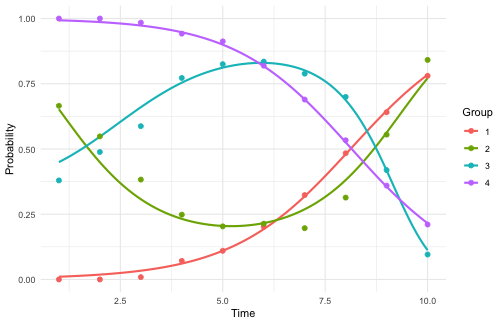
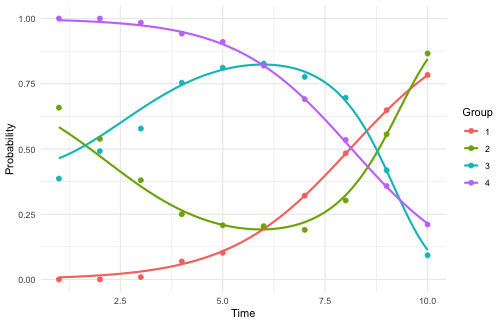
Deploying to gh-pages from @ fabregithub/gbtmkit@65d98519e1ab8475252a515e2c7f8a8fbb28c65c 🚀

diff --git a/articles/getting-started.html b/articles/getting-started.html
@@ -20,7 +20,7 @@
 
     <a class="navbar-brand me-2" href="../index.html">gbtmkit</a>
 
-    <small class="nav-text text-muted me-auto" data-bs-toggle="tooltip" data-bs-placement="bottom" title="">0.3.0</small>
+    <small class="nav-text text-muted me-auto" data-bs-toggle="tooltip" data-bs-placement="bottom" title="">0.3.0.9000</small>
 
 
     <button class="navbar-toggler" type="button" data-bs-toggle="collapse" data-bs-target="#navbar" aria-controls="navbar" aria-expanded="false" aria-label="Toggle navigation">
@@ -156,44 +156,44 @@ quick.</p>
 <span><span class="va">res</span></span>
 <span><span class="co">#&gt; &lt;gbtm_result&gt;</span></span>
 <span><span class="co">#&gt;   engine/family : gbtmkit / binomial</span></span>
-<span><span class="co">#&gt;   method        : &lt;default&gt;</span></span>
+<span><span class="co">#&gt;   method        : EM</span></span>
 <span><span class="co">#&gt;   groups        : 4</span></span>
-<span><span class="co">#&gt;   degrees       : 3, 2, 3, 1</span></span>
+<span><span class="co">#&gt;   degrees       : 1, 3, 3, 1</span></span>
 <span><span class="co">#&gt;   GRoLTS criteria met: TRUE</span></span>
-<span><span class="co">#&gt;   entropy       : 0.754  BIC: 17141.7</span></span></code></pre></div>
+<span><span class="co">#&gt;   entropy       : 0.759  BIC: 17109.9</span></span></code></pre></div>
 <p>The pipeline recovers the four planted groups. Everything each stage
 produced is kept on the result object:</p>
 <div class="sourceCode" id="cb5"><pre class="downlit sourceCode r">
 <code class="sourceCode R"><span><span class="va">res</span><span class="op">$</span><span class="va">group_selection</span>      <span class="co"># BIC for each candidate number of groups</span></span>
 <span><span class="co">#&gt; &lt;gbtm_selection&gt; stage=n_groups  by=BIC</span></span>
 <span><span class="co">#&gt;  n_groups   degrees      bic      aic   ok</span></span>
-<span><span class="co">#&gt;         2       2,2 17422.92 17385.73 TRUE</span></span>
-<span><span class="co">#&gt;         3     2,2,2 17275.73 17217.28 TRUE</span></span>
-<span><span class="co">#&gt;         4   2,2,2,2 17168.92 17089.22 TRUE</span></span>
-<span><span class="co">#&gt;         5 2,2,2,2,2 17198.17 17097.22 TRUE</span></span>
+<span><span class="co">#&gt;         2       2,2 17422.92 17385.72 TRUE</span></span>
+<span><span class="co">#&gt;         3     2,2,2 17275.74 17217.30 TRUE</span></span>
+<span><span class="co">#&gt;         4   2,2,2,2 17168.93 17089.23 TRUE</span></span>
+<span><span class="co">#&gt;         5 2,2,2,2,2 17194.21 17093.26 TRUE</span></span>
 <span><span class="co">#&gt;   best: 4</span></span></code></pre></div>
 <div class="sourceCode" id="cb6"><pre class="downlit sourceCode r">
 <code class="sourceCode R"><span><span class="fu"><a href="https://rdrr.io/r/base/summary.html" class="external-link">summary</a></span><span class="op">(</span><span class="va">res</span><span class="op">)</span></span>
 <span><span class="co">#&gt; === gbtm pipeline result ===</span></span>
 <span><span class="co">#&gt; &lt;gbtm_result&gt;</span></span>
 <span><span class="co">#&gt;   engine/family : gbtmkit / binomial</span></span>
-<span><span class="co">#&gt;   method        : &lt;default&gt;</span></span>
+<span><span class="co">#&gt;   method        : EM</span></span>
 <span><span class="co">#&gt;   groups        : 4</span></span>
-<span><span class="co">#&gt;   degrees       : 3, 2, 3, 1</span></span>
+<span><span class="co">#&gt;   degrees       : 1, 3, 3, 1</span></span>
 <span><span class="co">#&gt;   GRoLTS criteria met: TRUE</span></span>
-<span><span class="co">#&gt;   entropy       : 0.754  BIC: 17141.7</span></span>
+<span><span class="co">#&gt;   entropy       : 0.759  BIC: 17109.9</span></span>
 <span><span class="co">#&gt; </span></span>
 <span><span class="co">#&gt; Group diagnostics:</span></span>
 <span><span class="co">#&gt;  group n_assigned prop_assigned prop_model mismatch  appa    occ</span></span>
-<span><span class="co">#&gt;      1        337         0.225      0.207   -0.017 0.866 24.618</span></span>
-<span><span class="co">#&gt;      2        290         0.193      0.211    0.018 0.878 26.756</span></span>
-<span><span class="co">#&gt;      3        303         0.202      0.221    0.019 0.864 22.516</span></span>
-<span><span class="co">#&gt;      4        570         0.380      0.361   -0.019 0.897 15.395</span></span>
+<span><span class="co">#&gt;      1        333         0.222      0.204   -0.018 0.866 25.207</span></span>
+<span><span class="co">#&gt;      2        284         0.189      0.210    0.021 0.893 31.457</span></span>
+<span><span class="co">#&gt;      3        313         0.209      0.228    0.020 0.867 22.108</span></span>
+<span><span class="co">#&gt;      4        570         0.380      0.357   -0.023 0.891 14.738</span></span>
 <span><span class="co">#&gt; </span></span>
 <span><span class="co">#&gt; Assigned group sizes:</span></span>
 <span><span class="co">#&gt; </span></span>
 <span><span class="co">#&gt;   1   2   3   4 </span></span>
-<span><span class="co">#&gt; 337 290 303 570</span></span></code></pre></div>
+<span><span class="co">#&gt; 333 284 313 570</span></span></code></pre></div>
 </div>
 <div class="section level2">
 <h2 id="inspect-and-plot">Inspect and plot<a class="anchor" aria-label="anchor" href="#inspect-and-plot"></a>
@@ -204,10 +204,10 @@ trajectories with the observed per-group means overlaid.</p>
 <div class="sourceCode" id="cb7"><pre class="downlit sourceCode r">
 <code class="sourceCode R"><span><span class="va">res</span><span class="op">$</span><span class="va">diagnostics</span><span class="op">$</span><span class="va">groups</span></span>
 <span><span class="co">#&gt;   group n_assigned prop_assigned prop_model    mismatch      appa      occ</span></span>
-<span><span class="co">#&gt; 1     1        337     0.2246667  0.2073538 -0.01731287 0.8655933 24.61843</span></span>
-<span><span class="co">#&gt; 2     2        290     0.1933333  0.2113103  0.01797694 0.8775822 26.75647</span></span>
-<span><span class="co">#&gt; 3     3        303     0.2020000  0.2207788  0.01877885 0.8644891 22.51587</span></span>
-<span><span class="co">#&gt; 4     4        570     0.3800000  0.3605571 -0.01944292 0.8967039 15.39547</span></span></code></pre></div>
+<span><span class="co">#&gt; 1     1        333     0.2220000  0.2038646 -0.01813543 0.8658558 25.20687</span></span>
+<span><span class="co">#&gt; 2     2        284     0.1893333  0.2102101  0.02087676 0.8933063 31.45717</span></span>
+<span><span class="co">#&gt; 3     3        313     0.2086667  0.2284620  0.01979536 0.8674872 22.10796</span></span>
+<span><span class="co">#&gt; 4     4        570     0.3800000  0.3574633 -0.02253669 0.8912919 14.73752</span></span></code></pre></div>
 <div class="sourceCode" id="cb8"><pre class="downlit sourceCode r">
 <code class="sourceCode R"><span><span class="fu"><a href="../reference/plot_trajectories.html">plot_trajectories</a></span><span class="op">(</span><span class="va">res</span><span class="op">$</span><span class="va">final_fit</span><span class="op">)</span></span></code></pre></div>
 <div class="figure">
@@ -220,12 +220,12 @@ column) is in <code>res$assignment</code>:</p>
 <div class="sourceCode" id="cb9"><pre class="downlit sourceCode r">
 <code class="sourceCode R"><span><span class="fu"><a href="https://rdrr.io/r/utils/head.html" class="external-link">head</a></span><span class="op">(</span><span class="va">res</span><span class="op">$</span><span class="va">assignment</span><span class="op">)</span></span>
 <span><span class="co">#&gt;   id group           p1           p2          p3           p4</span></span>
-<span><span class="co">#&gt; 1  1     4 5.846693e-09 5.315735e-04 0.051537591 9.479308e-01</span></span>
-<span><span class="co">#&gt; 2  2     1 9.300871e-01 6.282380e-02 0.007089053 4.094335e-08</span></span>
-<span><span class="co">#&gt; 3  3     4 5.291590e-10 7.767643e-05 0.056226553 9.436958e-01</span></span>
-<span><span class="co">#&gt; 4  4     1 9.312346e-01 5.878013e-02 0.009985201 2.896705e-08</span></span>
-<span><span class="co">#&gt; 5  5     2 1.596779e-02 9.829723e-01 0.001033636 2.631241e-05</span></span>
-<span><span class="co">#&gt; 6  6     4 1.724421e-09 1.782099e-04 0.071815472 9.280063e-01</span></span></code></pre></div>
+<span><span class="co">#&gt; 1  1     4 3.265315e-09 4.611098e-04 0.052880054 9.466588e-01</span></span>
+<span><span class="co">#&gt; 2  2     1 9.496915e-01 4.249617e-02 0.007812277 3.560491e-08</span></span>
+<span><span class="co">#&gt; 3  3     4 2.927023e-10 5.356235e-05 0.057881482 9.420650e-01</span></span>
+<span><span class="co">#&gt; 4  4     1 9.596223e-01 2.885852e-02 0.011519114 2.528171e-08</span></span>
+<span><span class="co">#&gt; 5  5     2 6.759531e-03 9.925507e-01 0.000676577 1.323316e-05</span></span>
+<span><span class="co">#&gt; 6  6     4 9.585742e-10 1.193279e-04 0.073931256 9.259494e-01</span></span></code></pre></div>
 </div>
 <div class="section level2">
 <h2 id="report-against-the-grolts-checklist">Report against the GRoLTS checklist<a class="anchor" aria-label="anchor" href="#report-against-the-grolts-checklist"></a>
@@ -253,11 +253,11 @@ a Markdown appendix for supplementary material.</p>
 <span><span class="co">#&gt;       Per-wave proportions: 0.59, 0.58, 0.57, 0.58, 0.58, 0.57, 0.53, 0.51,</span></span>
 <span><span class="co">#&gt;       0.47, 0.44.</span></span>
 <span><span class="co">#&gt;   [5] Software</span></span>
-<span><span class="co">#&gt;       R version 4.6.1 (2026-06-24); gbtmkit 0.3.0; engine gbtmkit (gbtmkit</span></span>
-<span><span class="co">#&gt;       0.3.0).</span></span>
+<span><span class="co">#&gt;       R version 4.6.1 (2026-06-24); gbtmkit 0.3.0.9000; engine gbtmkit</span></span>
+<span><span class="co">#&gt;       (gbtmkit 0.3.0.9000), method 'EM'.</span></span>
 <span><span class="co">#&gt;   [7] Alternative trajectory shapes</span></span>
 <span><span class="co">#&gt;       17 polynomial shapes fitted (stepwise search, degrees 1..3 per</span></span>
-<span><span class="co">#&gt;       group); chosen degrees: 3, 2, 3, 1.</span></span>
+<span><span class="co">#&gt;       group); chosen degrees: 1, 3, 3, 1.</span></span>
 <span><span class="co">#&gt;   [8] Covariates</span></span>
 <span><span class="co">#&gt;       No covariates were used.</span></span>
 <span><span class="co">#&gt;   [9] Starting values / iterations</span></span>
@@ -269,16 +269,16 @@ a Markdown appendix for supplementary material.</p>
 <span><span class="co">#&gt;       GRoLTS acceptance criteria (min class share &gt; 0.05, APPA &gt; 0.7, OCC</span></span>
 <span><span class="co">#&gt;       &gt;= 5).</span></span>
 <span><span class="co">#&gt;   [11] Number of models fitted</span></span>
-<span><span class="co">#&gt;       22 models fitted in total (0 algorithm comparison, 4 group-number</span></span>
+<span><span class="co">#&gt;       24 models fitted in total (2 algorithm comparison, 4 group-number</span></span>
 <span><span class="co">#&gt;       candidates, 17 shape-search fits, 1 final fit). A one-class solution</span></span>
 <span><span class="co">#&gt;       was NOT among the candidates -- consider adding candidates = 1:K.</span></span>
 <span><span class="co">#&gt;   [12] Cases per class</span></span>
-<span><span class="co">#&gt;       Final 4-group model: n per class = 337, 290, 303, 570 (proportions</span></span>
-<span><span class="co">#&gt;       0.22, 0.19, 0.20, 0.38). Per-candidate class sizes are not retained</span></span>
+<span><span class="co">#&gt;       Final 4-group model: n per class = 333, 284, 313, 570 (proportions</span></span>
+<span><span class="co">#&gt;       0.22, 0.19, 0.21, 0.38). Per-candidate class sizes are not retained</span></span>
 <span><span class="co">#&gt;       by the pipeline.</span></span>
 <span><span class="co">#&gt;   [13] Entropy</span></span>
-<span><span class="co">#&gt;       Normalised classification entropy: 0.754 (APPA per class: 0.87, 0.88,</span></span>
-<span><span class="co">#&gt;       0.86, 0.90).</span></span>
+<span><span class="co">#&gt;       Normalised classification entropy: 0.759 (APPA per class: 0.87, 0.89,</span></span>
+<span><span class="co">#&gt;       0.87, 0.89).</span></span>
 <span><span class="co">#&gt; </span></span>
 <span><span class="co">#&gt; -- context supplied -- analyst completes --</span></span>
 <span><span class="co">#&gt;   [3c] Handling of missing data</span></span>
@@ -319,21 +319,23 @@ before moving on – this is exactly what the wrapper does internally.</p>
 <div class="section level3">
 <h3 id="stage-1-choose-the-estimation-algorithm">Stage 1: choose the estimation algorithm<a class="anchor" aria-label="anchor" href="#stage-1-choose-the-estimation-algorithm"></a>
 </h3>
-<p>This stage only applies to engines that offer several optimisers – of
-the four backends, only <code>trajeR</code> does (<code>"L"</code>,
-<code>"EM"</code>, <code>"EMIRLS"</code>); the one with the lowest BIC
-is selected. Single-optimiser engines (including the default native
-engine) skip this stage automatically.</p>
+<p>This stage applies to engines that offer several optimisers. The
+default native engine offers two (<code>"BFGS"</code> and
+<code>"EM"</code>) and <code>trajeR</code> offers three
+(<code>"L"</code>, <code>"EM"</code>, <code>"EMIRLS"</code>); the
+lowest-BIC one is selected. <code>flexmix</code> and <code>lcmm</code>
+have a single optimiser and skip this stage automatically. BFGS and EM
+maximise the same likelihood; on this small model they reach the same
+BIC and the faster BFGS is kept, though on a harder model one can edge
+out the other (the pipeline above selected EM):</p>
 <div class="sourceCode" id="cb11"><pre class="downlit sourceCode r">
-<code class="sourceCode R"><span><span class="va">algo</span> <span class="op">&lt;-</span> <span class="fu"><a href="../reference/select_algorithm.html">select_algorithm</a></span><span class="op">(</span><span class="va">spec</span>, engine <span class="op">=</span> <span class="st">"trajeR"</span>, n_groups <span class="op">=</span> <span class="fl">2</span>,</span>
-<span>                         degrees <span class="op">=</span> <span class="fu"><a href="https://rdrr.io/r/base/c.html" class="external-link">c</a></span><span class="op">(</span><span class="fl">1</span>, <span class="fl">1</span><span class="op">)</span><span class="op">)</span></span>
+<code class="sourceCode R"><span><span class="va">algo</span> <span class="op">&lt;-</span> <span class="fu"><a href="../reference/select_algorithm.html">select_algorithm</a></span><span class="op">(</span><span class="va">spec</span>, n_groups <span class="op">=</span> <span class="fl">2</span>, degrees <span class="op">=</span> <span class="fu"><a href="https://rdrr.io/r/base/c.html" class="external-link">c</a></span><span class="op">(</span><span class="fl">1</span>, <span class="fl">1</span><span class="op">)</span>, seed <span class="op">=</span> <span class="fl">1</span><span class="op">)</span></span>
 <span><span class="va">algo</span></span>
 <span><span class="co">#&gt; &lt;gbtm_selection&gt; stage=algorithm  by=BIC</span></span>
-<span><span class="co">#&gt;  method       bic       aic   ok</span></span>
-<span><span class="co">#&gt;       L  17980.01  17953.44 TRUE</span></span>
-<span><span class="co">#&gt;      EM 145507.87 145481.30 TRUE</span></span>
-<span><span class="co">#&gt;  EMIRLS 145739.37 145712.80 TRUE</span></span>
-<span><span class="co">#&gt;   best: L</span></span></code></pre></div>
+<span><span class="co">#&gt;  method      bic      aic   ok</span></span>
+<span><span class="co">#&gt;    BFGS 17980.01 17953.44 TRUE</span></span>
+<span><span class="co">#&gt;      EM 17980.01 17953.45 TRUE</span></span>
+<span><span class="co">#&gt;   best: BFGS</span></span></code></pre></div>
 </div>
 <div class="section level3">
 <h3 id="stage-2-choose-the-number-of-groups">Stage 2: choose the number of groups<a class="anchor" aria-label="anchor" href="#stage-2-choose-the-number-of-groups"></a>
@@ -561,8 +563,8 @@ and the registry tells you what each backend offers:</p>
 <td>binomial, gaussian</td>
 </tr>
 <tr class="even">
-<td>Optimizers</td>
-<td>BFGS (fixed)</td>
+<td>Optimisers</td>
+<td>BFGS (default) or EM</td>
 <td>
 <code>"L"</code>, <code>"EM"</code>, <code>"EMIRLS"</code> (stage 1
 picks one)</td>
@@ -607,10 +609,10 @@ data:</p>
 <span>                  method <span class="op">=</span> <span class="st">"L"</span>, seed <span class="op">=</span> <span class="fl">1</span><span class="op">)</span>   <span class="co"># method applies to trajeR only</span></span>
 <span><span class="co">#&gt; &lt;gbtm_benchmark&gt;  one model per engine, wall-clock seconds</span></span>
 <span><span class="co">#&gt;   engine   ok seconds      bic   loglik entropy min_appa groups_effective note</span></span>
-<span><span class="co">#&gt;  gbtmkit TRUE    1.60 17138.46 -8499.76    0.75     0.85                4     </span></span>
-<span><span class="co">#&gt;   trajeR TRUE   50.46 17138.03 -8499.54    0.76     0.85                4     </span></span>
-<span><span class="co">#&gt;  flexmix TRUE    2.74 17182.07 -8499.69    0.75     0.85                4     </span></span>
-<span><span class="co">#&gt;     lcmm TRUE   32.91 17138.08 -8499.56    0.75     0.84                4     </span></span>
+<span><span class="co">#&gt;  gbtmkit TRUE    1.63 17138.46 -8499.76    0.75     0.85                4     </span></span>
+<span><span class="co">#&gt;   trajeR TRUE   50.99 17138.03 -8499.54    0.76     0.85                4     </span></span>
+<span><span class="co">#&gt;  flexmix TRUE    2.40 17182.07 -8499.69    0.75     0.85                4     </span></span>
+<span><span class="co">#&gt;     lcmm TRUE   30.33 17138.08 -8499.56    0.75     0.84                4     </span></span>
 <span><span class="co">#&gt; Note: BIC/loglik are comparable only within an engine;</span></span>
 <span><span class="co">#&gt; compare engines on time and classification diagnostics.</span></span></code></pre></div>
 <p>All three engines find the same four groups with comparable

diff --git a/authors.html b/authors.html
@@ -7,7 +7,7 @@
 
     <a class="navbar-brand me-2" href="index.html">gbtmkit</a>
 
-    <small class="nav-text text-muted me-auto" data-bs-toggle="tooltip" data-bs-placement="bottom" title="">0.3.0</small>
+    <small class="nav-text text-muted me-auto" data-bs-toggle="tooltip" data-bs-placement="bottom" title="">0.3.0.9000</small>
 
 
     <button class="navbar-toggler" type="button" data-bs-toggle="collapse" data-bs-target="#navbar" aria-controls="navbar" aria-expanded="false" aria-label="Toggle navigation">
@@ -50,13 +50,13 @@
 
       <p>Nakayama S (2026).
 <em>gbtmkit: Engine-Agnostic Pipeline for Group-Based Trajectory Modelling</em>.
-R package version 0.3.0, <a href="https://github.com/fabregithub/gbtmkit" class="external-link">https://github.com/fabregithub/gbtmkit</a>.
+R package version 0.3.0.9000, <a href="https://github.com/fabregithub/gbtmkit" class="external-link">https://github.com/fabregithub/gbtmkit</a>.
 </p>
       <pre>@Manual{,
   title = {gbtmkit: Engine-Agnostic Pipeline for Group-Based Trajectory Modelling},
   author = {Shoji F. Nakayama},
   year = {2026},
-  note = {R package version 0.3.0},
+  note = {R package version 0.3.0.9000},
   url = {https://github.com/fabregithub/gbtmkit},
 }</pre>
     </div>

diff --git a/news/index.html b/news/index.html
@@ -7,7 +7,7 @@
 
     <a class="navbar-brand me-2" href="../index.html">gbtmkit</a>
 
-    <small class="nav-text text-muted me-auto" data-bs-toggle="tooltip" data-bs-placement="bottom" title="">0.3.0</small>
+    <small class="nav-text text-muted me-auto" data-bs-toggle="tooltip" data-bs-placement="bottom" title="">0.3.0.9000</small>
 
 
     <button class="navbar-toggler" type="button" data-bs-toggle="collapse" data-bs-target="#navbar" aria-controls="navbar" aria-expanded="false" aria-label="Toggle navigation">
@@ -36,6 +36,10 @@
       <small>Source: <a href="https://github.com/fabregithub/gbtmkit/blob/main/NEWS.md" class="external-link"><code>NEWS.md</code></a></small>
     </div>
 
+    <div class="section level2">
+<h2 class="pkg-version" data-toc-text="development version" id="gbtmkit-development-version">gbtmkit (development version)<a class="anchor" aria-label="anchor" href="#gbtmkit-development-version"></a></h2>
+<ul><li>The native engine gains an <strong>EM optimiser</strong>: <code>gbtm_fit(engine = "gbtmkit", method = "EM")</code> runs expectation-maximisation (monotone likelihood ascent; weighted-GLM M-steps – closed-form WLS for gaussian, IRLS for binomial/poisson; a closed-form or weighted-multinomial membership step) as an alternative to the default BFGS. Both maximise the same likelihood and converge to the same MLE (verified on the fixtures); EM is more robust near degenerate components, BFGS is faster. <code>gbtm_engine_methods("gbtmkit")</code> now returns <code>c("BFGS", "EM")</code>, so <code><a href="../reference/select_algorithm.html">select_algorithm()</a></code> and the pipeline’s stage-1 algorithm selection now work for the native engine – the default <code><a href="../reference/run_gbtm_pipeline.html">run_gbtm_pipeline()</a></code> picks BFGS vs EM by BIC. EM covers binomial/gaussian/poisson with membership and time-varying covariates; censored-normal outcomes stay BFGS-only.</li>
+</ul></div>
     <div class="section level2">
 <h2 class="pkg-version" data-toc-text="0.3.0" id="gbtmkit-030">gbtmkit 0.3.0<a class="anchor" aria-label="anchor" href="#gbtmkit-030"></a></h2>
 <ul><li><p><strong>The native engine is now the default</strong> (<code><a href="../reference/gbtm_engines.html">gbtm_engines()</a></code> lists it first). Existing code that relied on the old default with trajeR-specific arguments (e.g. <code>method = "L"</code>) must now pass <code>engine = "trajeR"</code> explicitly; code without engine-specific arguments keeps working and gets much faster.</p></li>

diff --git a/NOTES.html b/NOTES.html
@@ -7,7 +7,7 @@
 
     <a class="navbar-brand me-2" href="index.html">gbtmkit</a>
 
-    <small class="nav-text text-muted me-auto" data-bs-toggle="tooltip" data-bs-placement="bottom" title="">0.3.0</small>
+    <small class="nav-text text-muted me-auto" data-bs-toggle="tooltip" data-bs-placement="bottom" title="">0.3.0.9000</small>
 
 
     <button class="navbar-toggler" type="button" data-bs-toggle="collapse" data-bs-target="#navbar" aria-controls="navbar" aria-expanded="false" aria-label="Toggle navigation">
@@ -124,6 +124,8 @@
 <strong>NA outcomes are masked, not dropped</strong> (unlike the long-format engines) – subjects need &gt;= 1 observed occasion.</li>
 <li>
 <strong>Censored normal (added 2026-07-14)</strong>: Tobit cells (y &lt;= ymin left-, y &gt;= ymax right-censored) with Mills-ratio gradients computed on the log scale; gradient matches numDeriv to ~1e-7 on censored data, recovers latent parameters through ~13% censoring, and the log-likelihood matches trajeR’s CNORM with explicit bounds exactly. Note trajeR <em>defaults</em> ymin/ymax to min/max of Y (treating the extremes as censored); the native engine censors only when the spec sets bounds explicitly.</li>
+<li>
+<strong>EM optimiser</strong> (post-0.3.0): <code>method = "EM"</code> runs expectation-maximisation as an alternative to BFGS. E-step reuses the posterior computation; M-step is a per-class weighted GLM (<code>lm.wfit</code> for gaussian, <code>glm.fit(weights=)</code> for binomial/poisson, subject weights broadcast to the subject’s occasions) plus a membership update (closed-form <code>log(pi_k/pi_1)</code> without covariates, a small weighted-multinomial <code>optim</code> with them, reusing the <code>W - pi</code> score). Verified: monotone likelihood ascent, and EM converges to the <em>same</em> MLE as BFGS on binary/gaussian/covariate fixtures (diff &lt; 1e-3). This makes gbtmkit a two-optimiser engine, so <code>gbtm_engine_methods("gbtmkit")</code> returns <code>c("BFGS","EM")</code> and the pipeline’s stage-1 selection now runs for the native default (user-chosen: auto-select BFGS vs EM). Censored-normal is BFGS-only (the Tobit M-step is not a weighted GLM). Both optimisers reuse the same <code>par</code> layout, so accessors/<code>optimHess</code>/multi-start are unchanged.</li>
 <li>
 <strong>Multi-start starts</strong> (v0.3.0): start 1 is the deterministic quantile- intercept “default” init; starts &gt;= 2 are k-means partitions + per-cluster polynomial/GLM regressions (full coefficient starts, not just intercepts). The regression starts are what escape merged-group local optima on curved data: continuous <code>rep(3,4)</code> single-start collapses to 3 groups (BIC 54200), but n_starts &gt;= 2 finds the good optimum (BIC 47205, exactly matching trajeR) and perfect recovery.</li>
 <li>

diff --git a/404.html b/404.html
@@ -20,7 +20,7 @@
 
     <a class="navbar-brand me-2" href="https://fabregithub.github.io/gbtmkit/index.html">gbtmkit</a>
 
-    <small class="nav-text text-muted me-auto" data-bs-toggle="tooltip" data-bs-placement="bottom" title="">0.3.0</small>
+    <small class="nav-text text-muted me-auto" data-bs-toggle="tooltip" data-bs-placement="bottom" title="">0.3.0.9000</small>
 
 
     <button class="navbar-toggler" type="button" data-bs-toggle="collapse" data-bs-target="#navbar" aria-controls="navbar" aria-expanded="false" aria-label="Toggle navigation">

diff --git a/LICENSE-text.html b/LICENSE-text.html
@@ -7,7 +7,7 @@
 
     <a class="navbar-brand me-2" href="index.html">gbtmkit</a>
 
-    <small class="nav-text text-muted me-auto" data-bs-toggle="tooltip" data-bs-placement="bottom" title="">0.3.0</small>
+    <small class="nav-text text-muted me-auto" data-bs-toggle="tooltip" data-bs-placement="bottom" title="">0.3.0.9000</small>
 
 
     <button class="navbar-toggler" type="button" data-bs-toggle="collapse" data-bs-target="#navbar" aria-controls="navbar" aria-expanded="false" aria-label="Toggle navigation">

diff --git a/LICENSE.html b/LICENSE.html
@@ -7,7 +7,7 @@
 
     <a class="navbar-brand me-2" href="index.html">gbtmkit</a>
 
-    <small class="nav-text text-muted me-auto" data-bs-toggle="tooltip" data-bs-placement="bottom" title="">0.3.0</small>
+    <small class="nav-text text-muted me-auto" data-bs-toggle="tooltip" data-bs-placement="bottom" title="">0.3.0.9000</small>
 
 
     <button class="navbar-toggler" type="button" data-bs-toggle="collapse" data-bs-target="#navbar" aria-controls="navbar" aria-expanded="false" aria-label="Toggle navigation">

diff --git a/articles/index.html b/articles/index.html
@@ -7,7 +7,7 @@
 
     <a class="navbar-brand me-2" href="../index.html">gbtmkit</a>
 
-    <small class="nav-text text-muted me-auto" data-bs-toggle="tooltip" data-bs-placement="bottom" title="">0.3.0</small>
+    <small class="nav-text text-muted me-auto" data-bs-toggle="tooltip" data-bs-placement="bottom" title="">0.3.0.9000</small>
 
 
     <button class="navbar-toggler" type="button" data-bs-toggle="collapse" data-bs-target="#navbar" aria-controls="navbar" aria-expanded="false" aria-label="Toggle navigation">

diff --git a/index.html b/index.html
@@ -22,7 +22,7 @@
 
     <a class="navbar-brand me-2" href="index.html">gbtmkit</a>
 
-    <small class="nav-text text-muted me-auto" data-bs-toggle="tooltip" data-bs-placement="bottom" title="">0.3.0</small>
+    <small class="nav-text text-muted me-auto" data-bs-toggle="tooltip" data-bs-placement="bottom" title="">0.3.0.9000</small>
 
 
     <button class="navbar-toggler" type="button" data-bs-toggle="collapse" data-bs-target="#navbar" aria-controls="navbar" aria-expanded="false" aria-label="Toggle navigation">

diff --git a/reference/apply_grolts_criteria.html b/reference/apply_grolts_criteria.html
@@ -11,7 +11,7 @@ recommended model is the top row."></head><body>
 
     <a class="navbar-brand me-2" href="../index.html">gbtmkit</a>
 
-    <small class="nav-text text-muted me-auto" data-bs-toggle="tooltip" data-bs-placement="bottom" title="">0.3.0</small>
+    <small class="nav-text text-muted me-auto" data-bs-toggle="tooltip" data-bs-placement="bottom" title="">0.3.0.9000</small>
 
 
     <button class="navbar-toggler" type="button" data-bs-toggle="collapse" data-bs-target="#navbar" aria-controls="navbar" aria-expanded="false" aria-label="Toggle navigation">

diff --git a/reference/benchmark_engines.html b/reference/benchmark_engines.html
@@ -15,7 +15,7 @@ quality is adequate."></head><body>
 
     <a class="navbar-brand me-2" href="../index.html">gbtmkit</a>
 
-    <small class="nav-text text-muted me-auto" data-bs-toggle="tooltip" data-bs-placement="bottom" title="">0.3.0</small>
+    <small class="nav-text text-muted me-auto" data-bs-toggle="tooltip" data-bs-placement="bottom" title="">0.3.0.9000</small>
 
 
     <button class="navbar-toggler" type="button" data-bs-toggle="collapse" data-bs-target="#navbar" aria-controls="navbar" aria-expanded="false" aria-label="Toggle navigation">

diff --git a/reference/evaluate_shapes.html b/reference/evaluate_shapes.html
@@ -15,7 +15,7 @@ and an up-front run-time estimate.'></head><body>
 
     <a class="navbar-brand me-2" href="../index.html">gbtmkit</a>
 
-    <small class="nav-text text-muted me-auto" data-bs-toggle="tooltip" data-bs-placement="bottom" title="">0.3.0</small>
+    <small class="nav-text text-muted me-auto" data-bs-toggle="tooltip" data-bs-placement="bottom" title="">0.3.0.9000</small>
 
 
     <button class="navbar-toggler" type="button" data-bs-toggle="collapse" data-bs-target="#navbar" aria-controls="navbar" aria-expanded="false" aria-label="Toggle navigation">